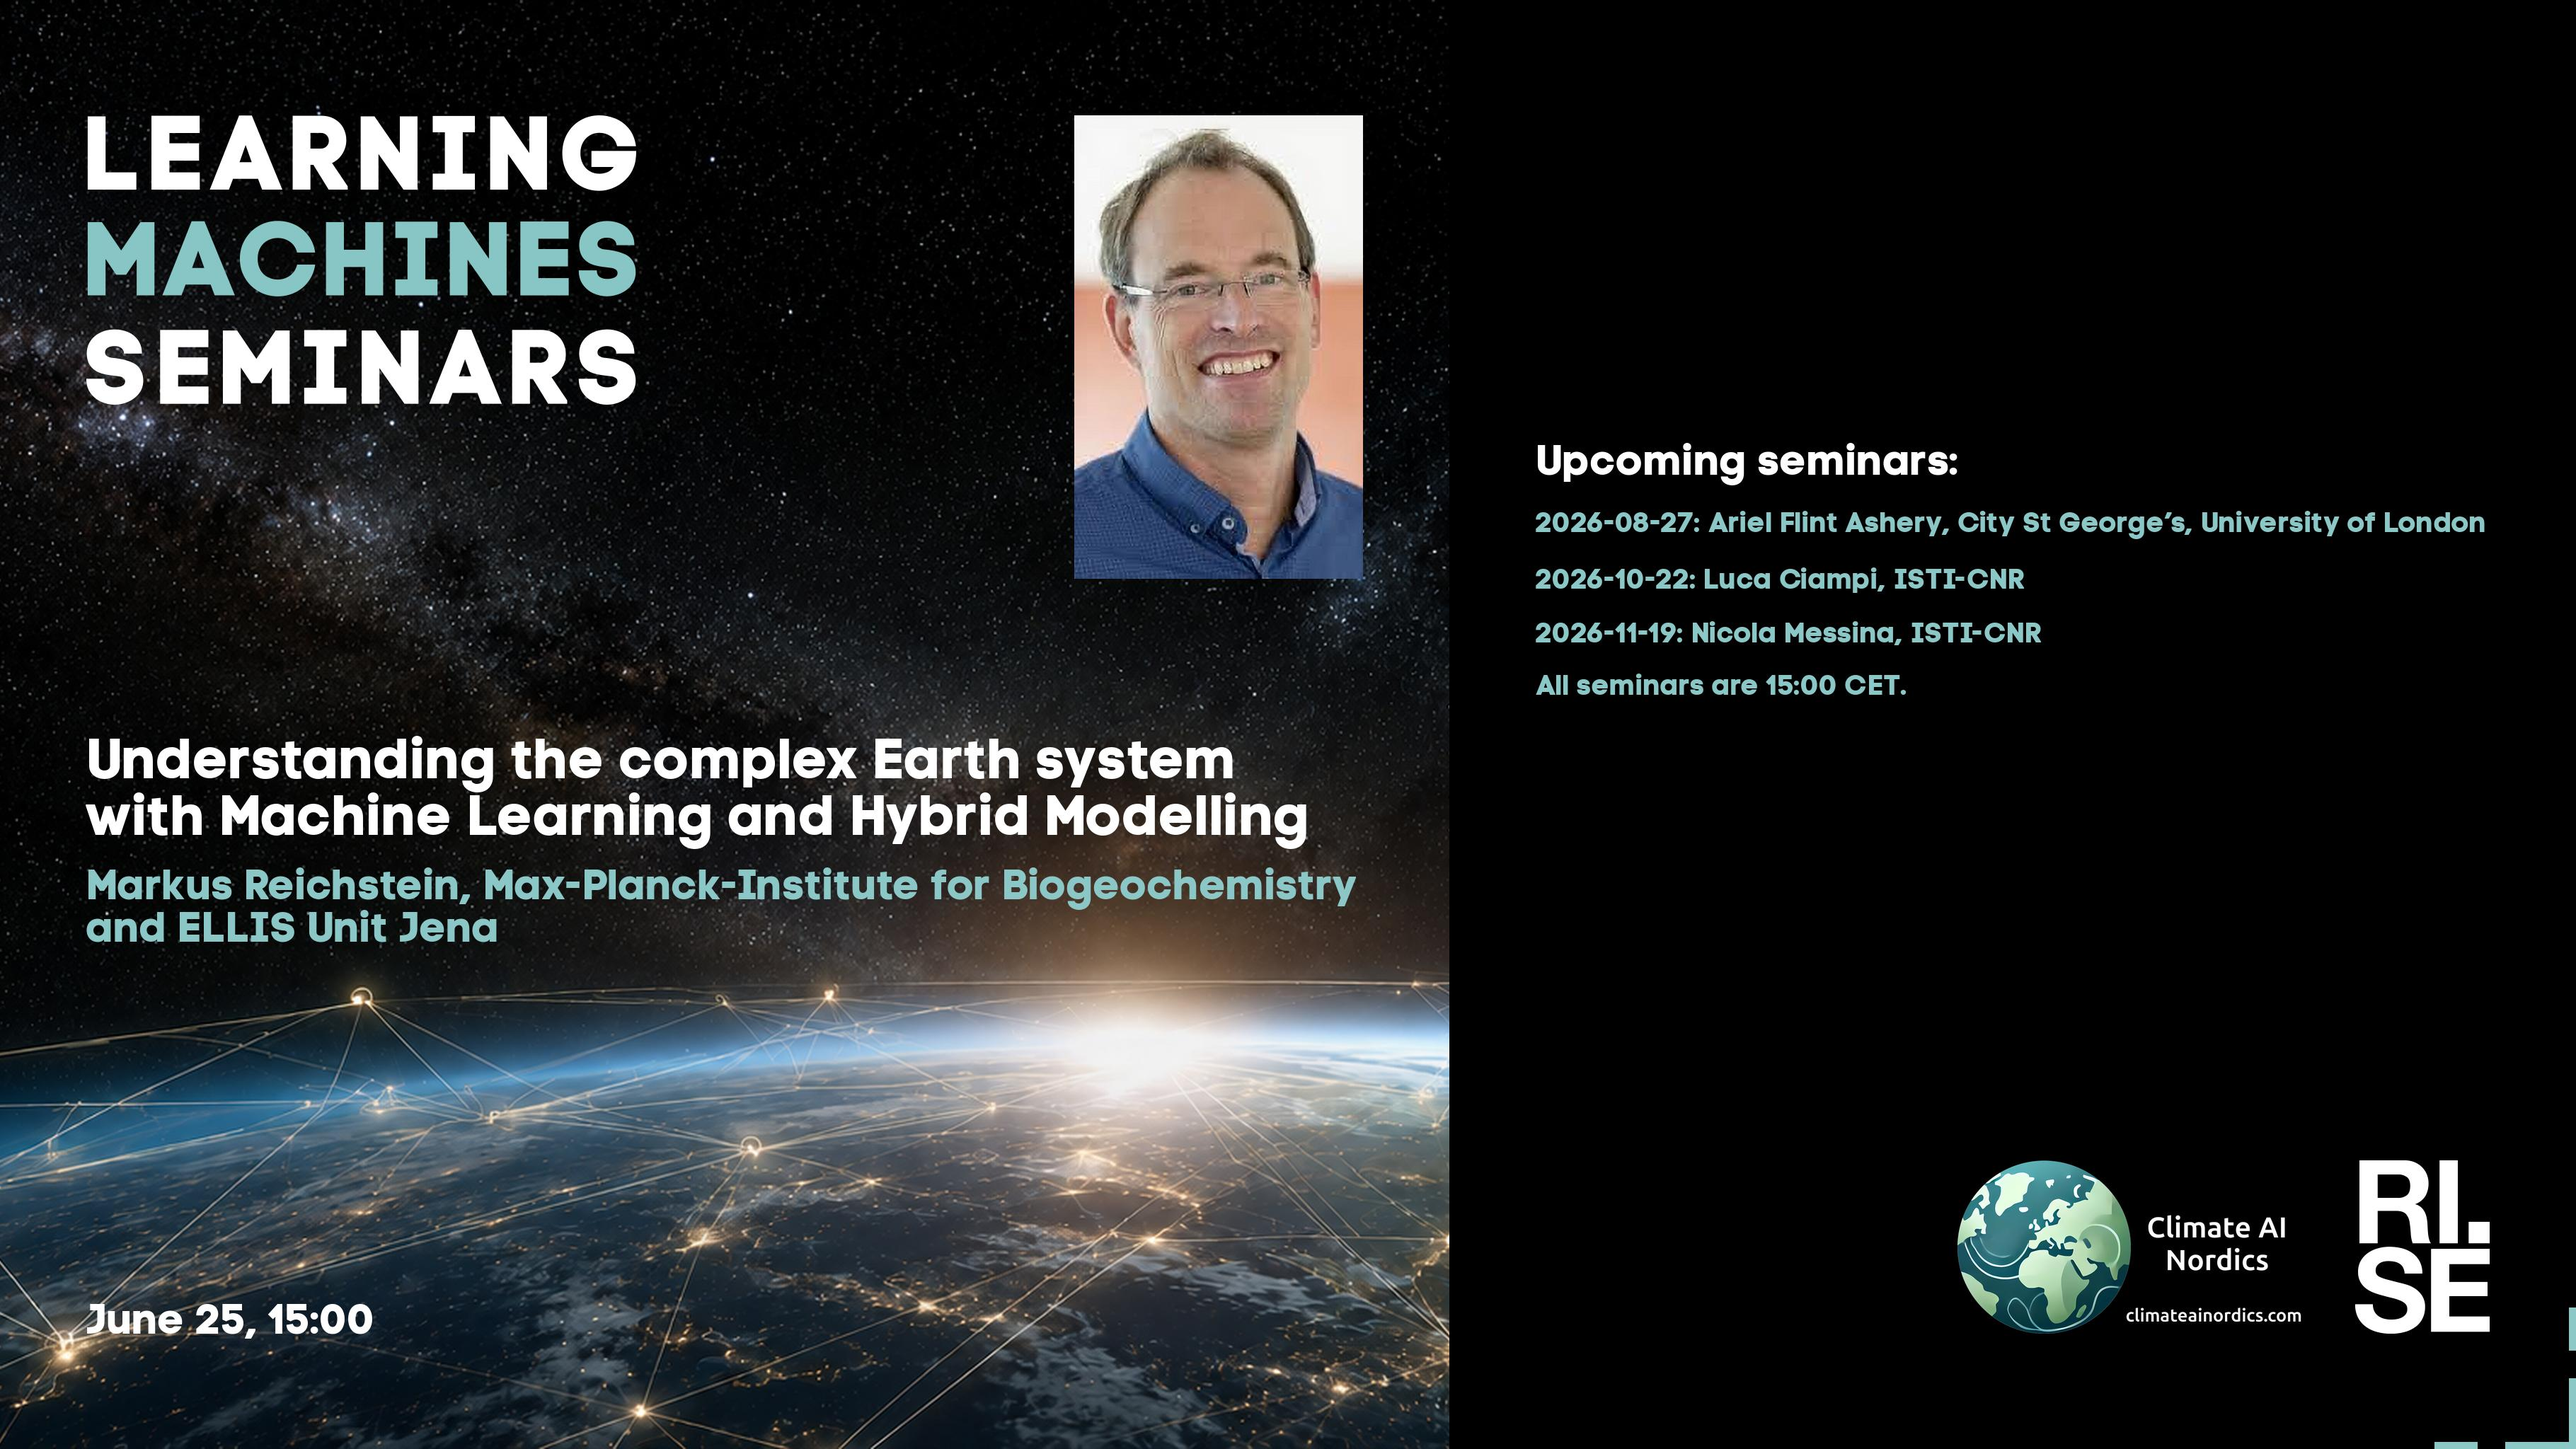
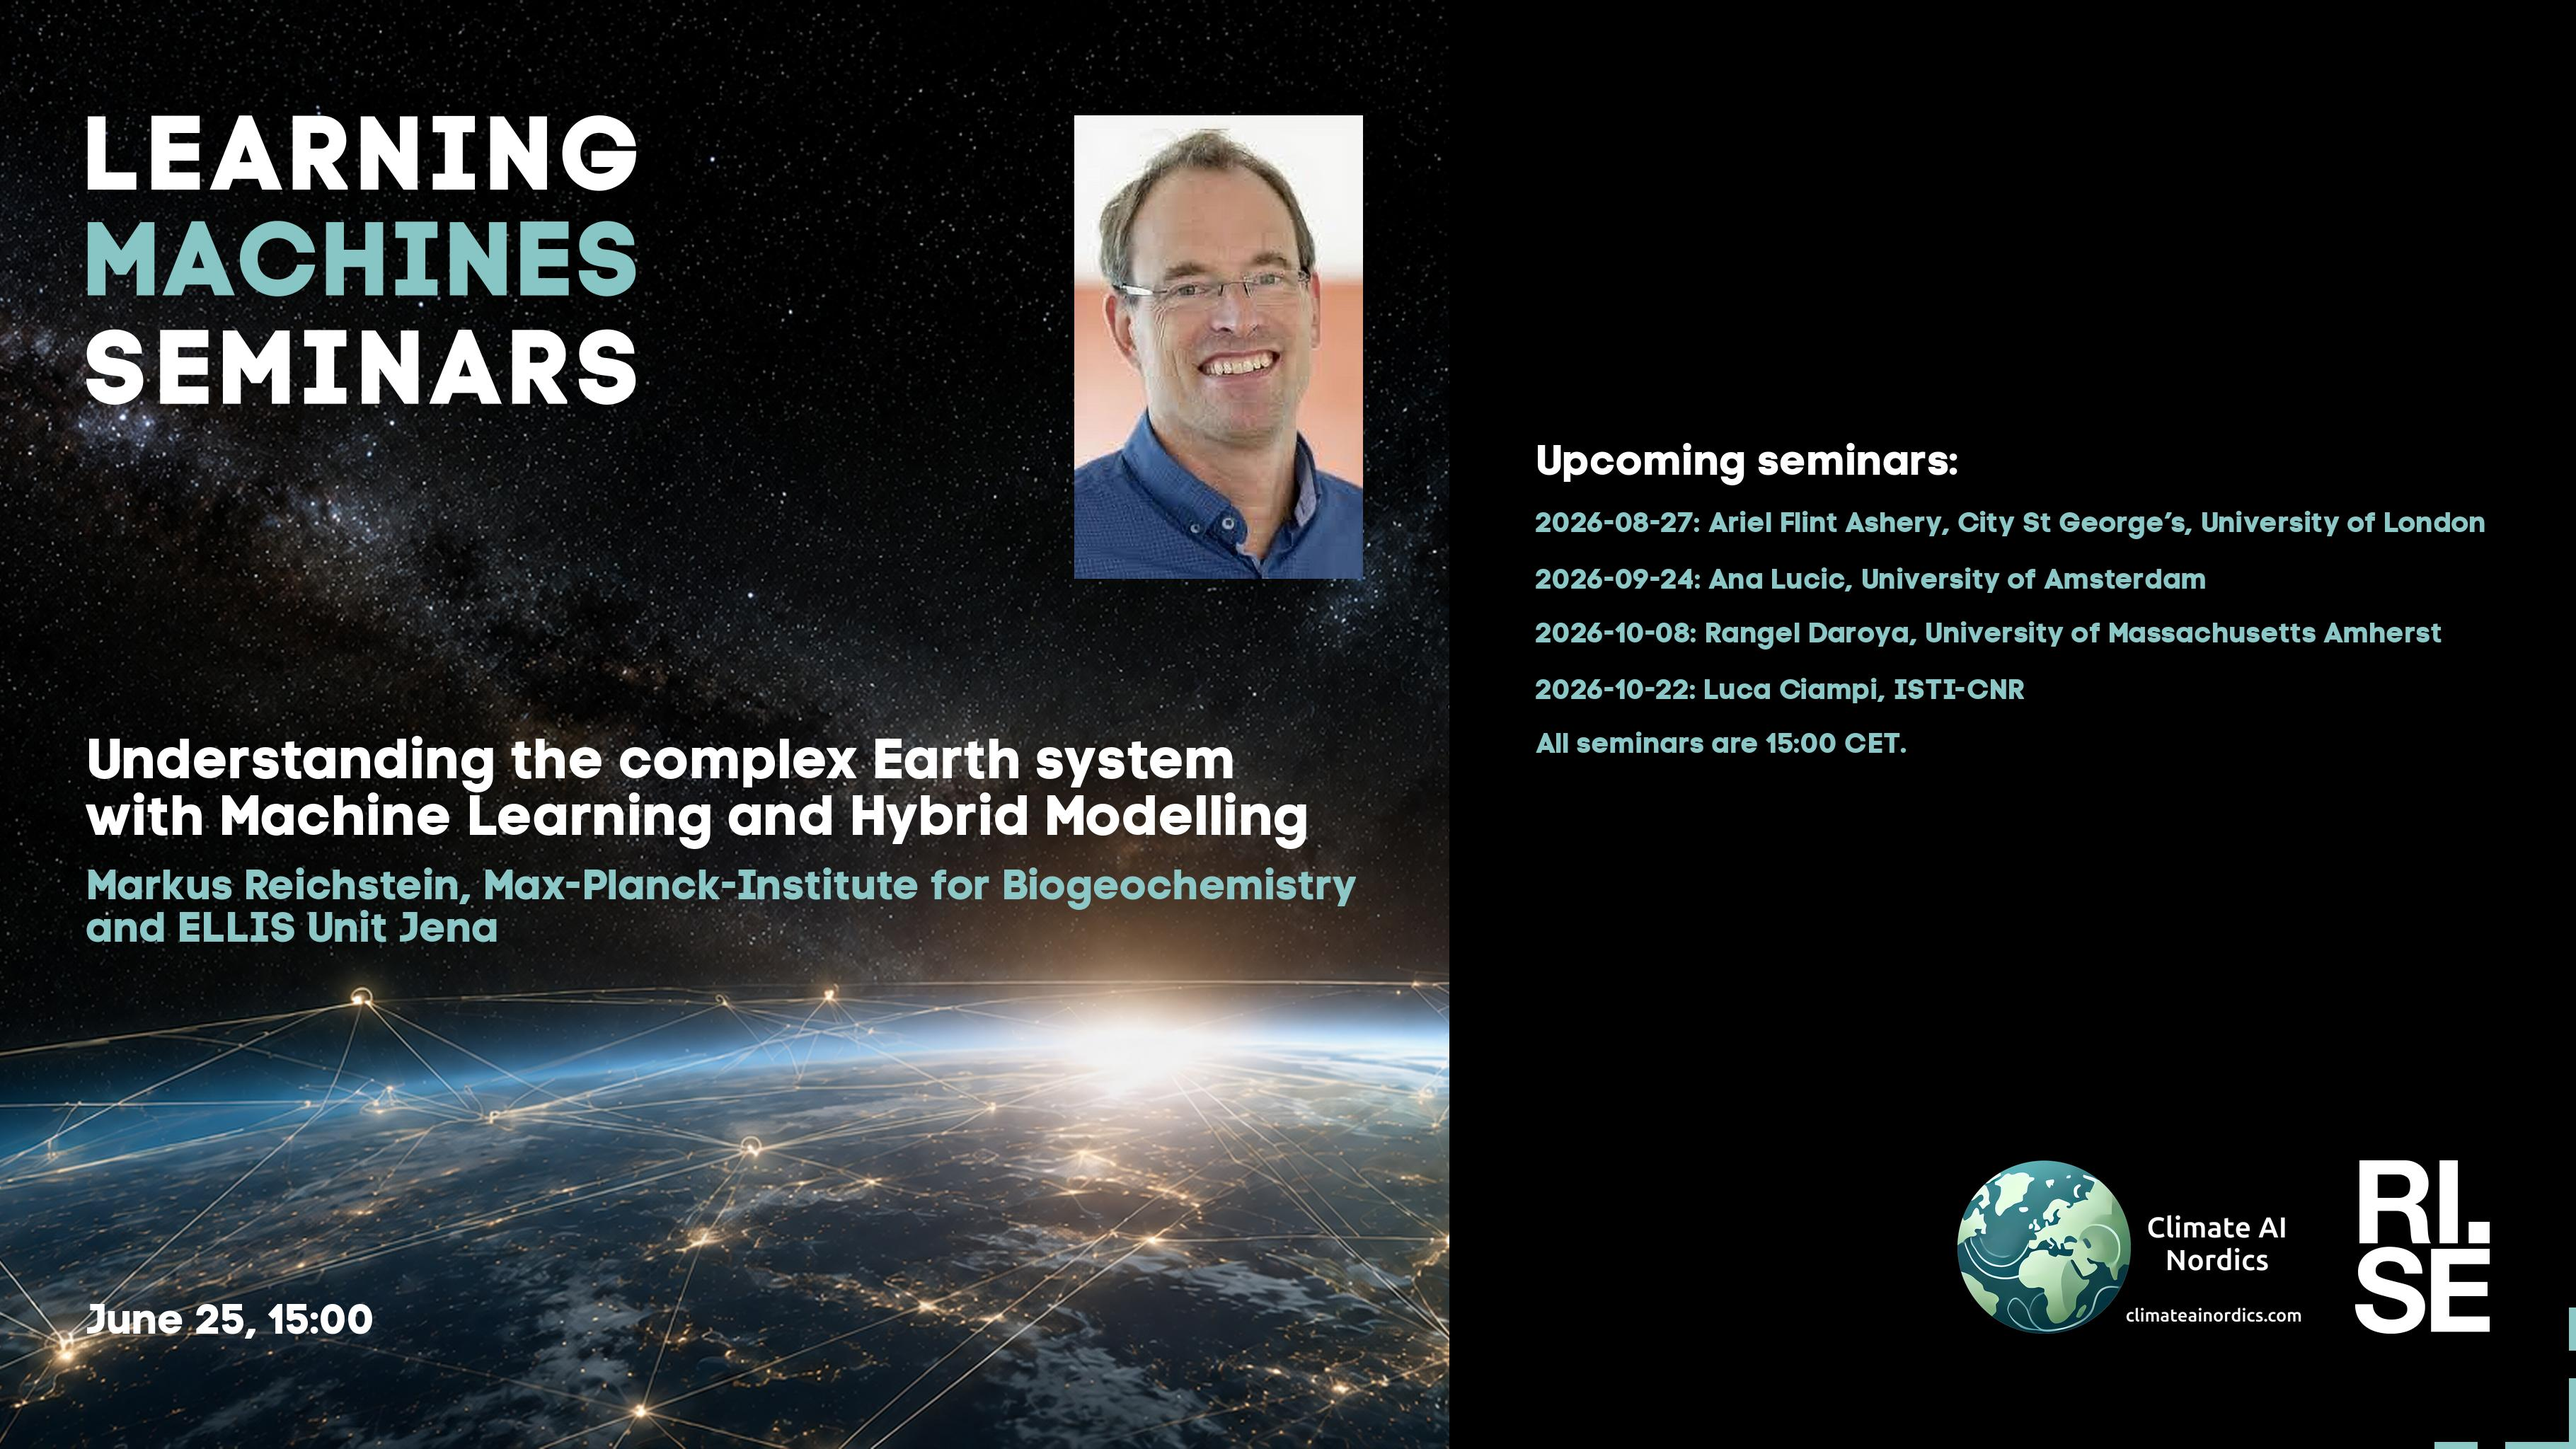
Updated plan on web site.

Changed region(s): [[0.5898, 0.375, 0.9313, 0.5312]]

diff --git a/lm/2026.md b/lm/2026.md
@@ -25,7 +25,7 @@ table {border-collapse: collapse;}
 | <span style="color:red"> 2026-05-14 </span> | <span style="color:red"> Ascension day </span> | <span style="color:red">  </span> | <span style="color:red">  ---  ---  </span> | <span style="color:red">  </span> | <span style="color:red">  </span> | <span style="color:red"> CANCELLED </span> |
 | <span style="color:red"> 2026-05-21 </span> | <span style="color:red"> Swedish climate symposium, affilitation </span> | <span style="color:red">  </span> | <span style="color:red">  ---  ---  </span> | <span style="color:red">  </span> | <span style="color:red">  </span> | <span style="color:red"> CANCELLED </span> |
 |  2026-05-28  |  [Kelsey Doerksen, University of Cape Town and Arizona State University](2026-05-28.md)  |  [photo](2026-05-28-photo-kelsey-doerksen.jpg)  |  [social media bg ](2026-05-28-social-media-bg-kelsey-doerksen.jpg) --- [social media photo ](2026-05-28-social-media-photo-kelsey-doerksen.jpg) --- [social media 169 ](2026-05-28-social-media-169-kelsey-doerksen.jpg)  |  [meeting backdrop ](2026-05-28-meeting-backdrop-kelsey-doerksen.jpg)  |  [youtube thumbnail ](2026-05-28-youtube-thumbnail-kelsey-doerksen.jpg)  |  STABP  |
-| <span style="color:red"> 2026-06-04 </span> | <span style="color:red"> [Ariel Flint Ashery, City St George’s, University of London](2026-06-04.md) </span> | <span style="color:red">  </span> | <span style="color:red">  ---  ---  </span> | <span style="color:red">  </span> | <span style="color:red">  </span> | <span style="color:red"> CANCELLED </span> |
+| <span style="color:red"> 2026-06-04 </span> | <span style="color:red"> [cancelled, City St George’s, University of London](2026-06-04.md) </span> | <span style="color:red">  </span> | <span style="color:red">  ---  ---  </span> | <span style="color:red">  </span> | <span style="color:red">  </span> | <span style="color:red"> CANCELLED </span> |
 |  2026-06-11  |  [Gustau Camps-Valls, University of Valencia](2026-06-11.md)  |  [photo](2026-06-11-photo-gustau-camps-valls.png)  |  [social media bg ](2026-06-11-social-media-bg-gustau-camps-valls.jpg) --- [social media photo ](2026-06-11-social-media-photo-gustau-camps-valls.jpg) --- [social media 169 ](2026-06-11-social-media-169-gustau-camps-valls.jpg)  |  [meeting backdrop ](2026-06-11-meeting-backdrop-gustau-camps-valls.jpg)  |  [youtube thumbnail ](2026-06-11-youtube-thumbnail-gustau-camps-valls.jpg)  |  STABP  |
 | <span style="color:red"> 2026-06-18 </span> | <span style="color:red"> BI-WEEKLY PAUSE </span> | <span style="color:red">  </span> | <span style="color:red">  ---  ---  </span> | <span style="color:red">  </span> | <span style="color:red">  </span> | <span style="color:red"> CANCELLED </span> |
 |  2026-06-25  |  [Markus Reichstein, Max-Planck-Institute for Biogeochemistry and ELLIS Unit Jena](2026-06-25.md)  |  [photo](2026-06-25-photo-markus-reichstein.jpg)  |  [social media bg ](2026-06-25-social-media-bg-markus-reichstein.jpg) --- [social media photo ](2026-06-25-social-media-photo-markus-reichstein.jpg) --- [social media 169 ](2026-06-25-social-media-169-markus-reichstein.jpg)  |  [meeting backdrop ](2026-06-25-meeting-backdrop-markus-reichstein.jpg)  |  [youtube thumbnail ](2026-06-25-youtube-thumbnail-markus-reichstein.jpg)  |  STABP  |

diff --git a/lm/index.md b/lm/index.md
@@ -25,7 +25,7 @@ table {border-collapse: collapse;}
 | <span style="color:red"> 2026-05-14 </span> | <span style="color:red"> Ascension day </span> | <span style="color:red">  </span> | <span style="color:red">  ---  ---  </span> | <span style="color:red">  </span> | <span style="color:red">  </span> | <span style="color:red"> CANCELLED </span> |
 | <span style="color:red"> 2026-05-21 </span> | <span style="color:red"> Swedish climate symposium, affilitation </span> | <span style="color:red">  </span> | <span style="color:red">  ---  ---  </span> | <span style="color:red">  </span> | <span style="color:red">  </span> | <span style="color:red"> CANCELLED </span> |
 |  2026-05-28  |  [Kelsey Doerksen, University of Cape Town and Arizona State University](2026-05-28.md)  |  [photo](2026-05-28-photo-kelsey-doerksen.jpg)  |  [social media bg ](2026-05-28-social-media-bg-kelsey-doerksen.jpg) --- [social media photo ](2026-05-28-social-media-photo-kelsey-doerksen.jpg) --- [social media 169 ](2026-05-28-social-media-169-kelsey-doerksen.jpg)  |  [meeting backdrop ](2026-05-28-meeting-backdrop-kelsey-doerksen.jpg)  |  [youtube thumbnail ](2026-05-28-youtube-thumbnail-kelsey-doerksen.jpg)  |  STABP  |
-| <span style="color:red"> 2026-06-04 </span> | <span style="color:red"> [Ariel Flint Ashery, City St George’s, University of London](2026-06-04.md) </span> | <span style="color:red">  </span> | <span style="color:red">  ---  ---  </span> | <span style="color:red">  </span> | <span style="color:red">  </span> | <span style="color:red"> CANCELLED </span> |
+| <span style="color:red"> 2026-06-04 </span> | <span style="color:red"> [cancelled, City St George’s, University of London](2026-06-04.md) </span> | <span style="color:red">  </span> | <span style="color:red">  ---  ---  </span> | <span style="color:red">  </span> | <span style="color:red">  </span> | <span style="color:red"> CANCELLED </span> |
 |  2026-06-11  |  [Gustau Camps-Valls, University of Valencia](2026-06-11.md)  |  [photo](2026-06-11-photo-gustau-camps-valls.png)  |  [social media bg ](2026-06-11-social-media-bg-gustau-camps-valls.jpg) --- [social media photo ](2026-06-11-social-media-photo-gustau-camps-valls.jpg) --- [social media 169 ](2026-06-11-social-media-169-gustau-camps-valls.jpg)  |  [meeting backdrop ](2026-06-11-meeting-backdrop-gustau-camps-valls.jpg)  |  [youtube thumbnail ](2026-06-11-youtube-thumbnail-gustau-camps-valls.jpg)  |  STABP  |
 | <span style="color:red"> 2026-06-18 </span> | <span style="color:red"> BI-WEEKLY PAUSE </span> | <span style="color:red">  </span> | <span style="color:red">  ---  ---  </span> | <span style="color:red">  </span> | <span style="color:red">  </span> | <span style="color:red"> CANCELLED </span> |
 |  2026-06-25  |  [Markus Reichstein, Max-Planck-Institute for Biogeochemistry and ELLIS Unit Jena](2026-06-25.md)  |  [photo](2026-06-25-photo-markus-reichstein.jpg)  |  [social media bg ](2026-06-25-social-media-bg-markus-reichstein.jpg) --- [social media photo ](2026-06-25-social-media-photo-markus-reichstein.jpg) --- [social media 169 ](2026-06-25-social-media-169-markus-reichstein.jpg)  |  [meeting backdrop ](2026-06-25-meeting-backdrop-markus-reichstein.jpg)  |  [youtube thumbnail ](2026-06-25-youtube-thumbnail-markus-reichstein.jpg)  |  STABP  |

diff --git a/lm/2026-05-28.md b/lm/2026-05-28.md
@@ -24,9 +24,10 @@ This seminar is a collaboration between RISE and Climate AI Nordics -- [climatea
 
 **Upcoming seminars:**
 
-* 2026-06-11: *More is different: emergent social conventions and tipping points in AI populations*, Gustau Camps-Valls, University of Valencia
-* 2026-06-25: *More is different: emergent social conventions and tipping points in AI populations*, Markus Reichstein, Max-Planck-Institute for Biogeochemistry and ELLIS Unit Jena
-* 2026-08-27: *More is different: emergent social conventions and tipping points in AI populations*, Ariel Flint Ashery, City St George’s, University of London
+* 2026-06-11: Gustau Camps-Valls, University of Valencia
+* 2026-06-25: Markus Reichstein, Max-Planck-Institute for Biogeochemistry and ELLIS Unit Jena
+* 2026-08-27: Ariel Flint Ashery, City St George’s, University of London
+* 2026-09-24: Ana Lucic, University of Amsterdam
 * All seminars are 15:00 CET.
 
 More information and coming seminars: [https://ri.se/lm-sem](https://ri.se/lm-sem)

diff --git a/lm/2026-06-25.md b/lm/2026-06-25.md
@@ -27,8 +27,9 @@ In this talk I will discuss how machine learning and hybrid modelling can help b
 **Upcoming seminars:**
 
 * 2026-08-27: Ariel Flint Ashery, City St George’s, University of London
+* 2026-09-24: Ana Lucic, University of Amsterdam
+* 2026-10-08: Rangel Daroya, University of Massachusetts Amherst
 * 2026-10-22: Luca Ciampi, ISTI-CNR
-* 2026-11-19: Nicola Messina, ISTI-CNR
 * All seminars are 15:00 CET.
 
 More information and coming seminars: [https://ri.se/lm-sem](https://ri.se/lm-sem)

diff --git a/lm/2026-08-27.md b/lm/2026-08-27.md
@@ -24,7 +24,7 @@ This seminar is a collaboration between RISE and Climate AI Nordics -- [climatea
 
 **Upcoming seminars:**
 
-* 2026-09-24: Anastasia Kakouri, University of Aegean
+* 2026-09-24: Ana Lucic, University of Amsterdam
 * 2026-10-08: Rangel Daroya, University of Massachusetts Amherst
 * 2026-10-22: Luca Ciampi, ISTI-CNR
 * 2026-11-19: Nicola Messina, ISTI-CNR
